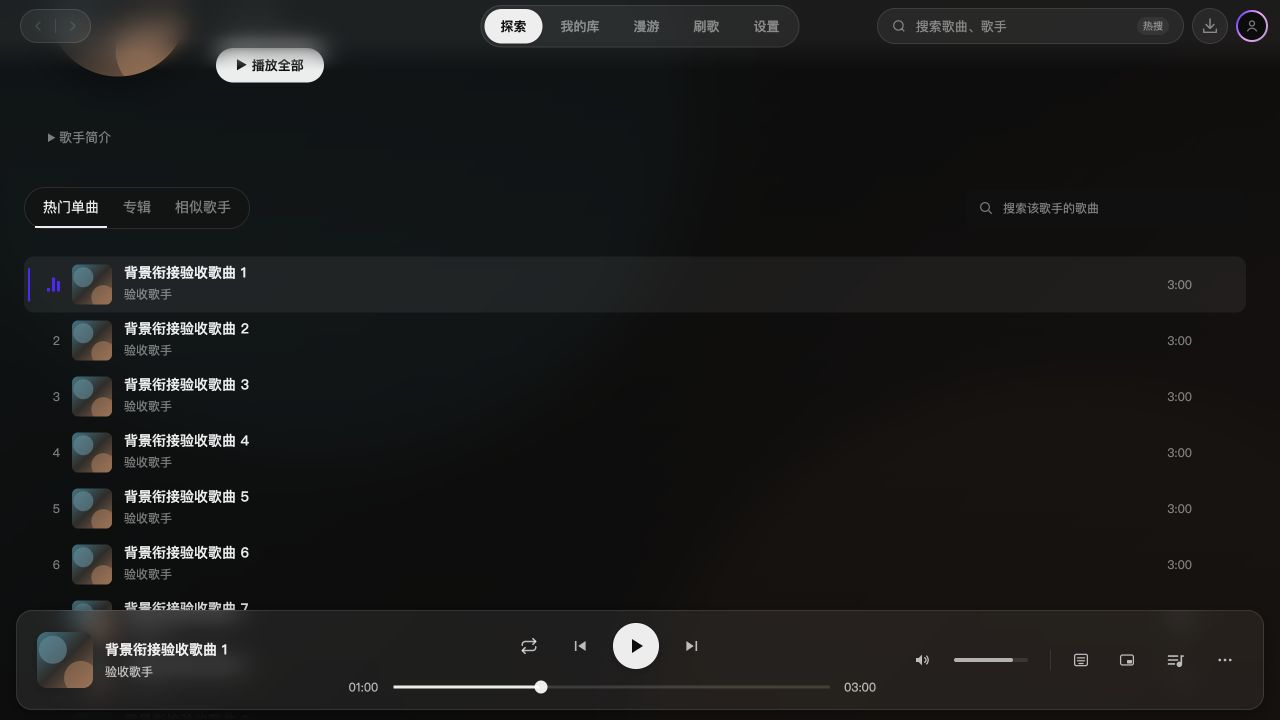
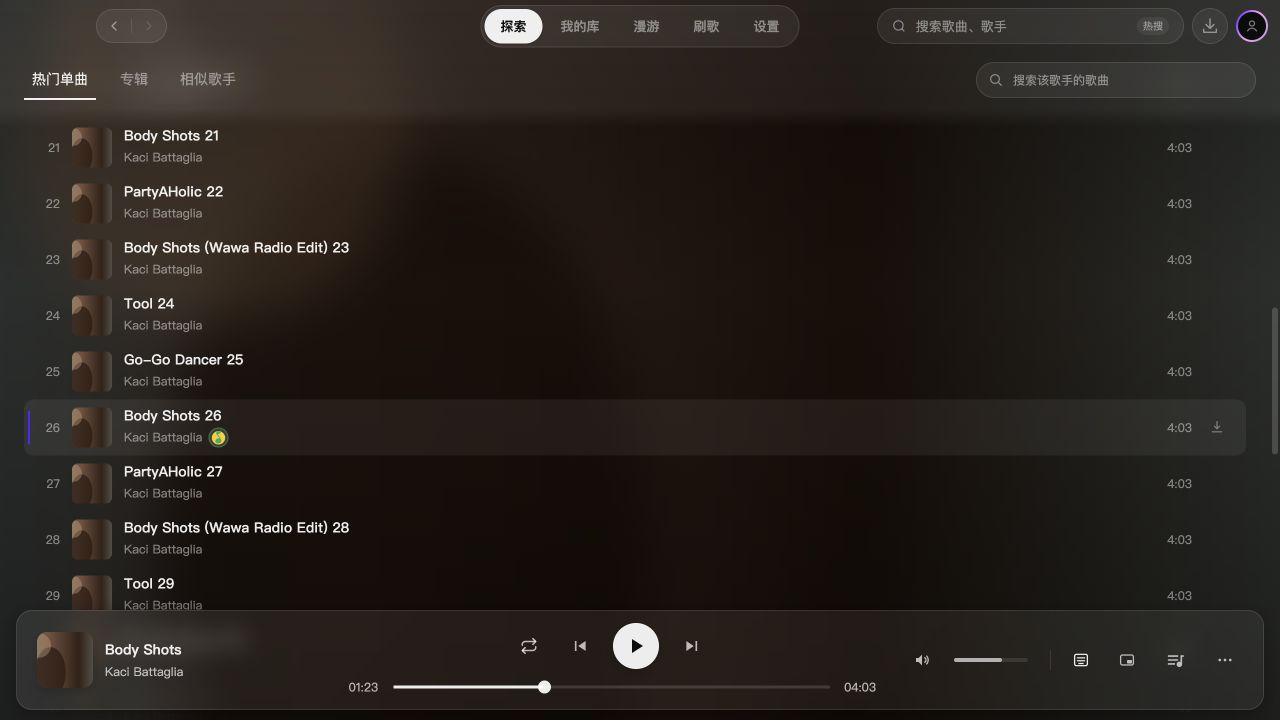
fix(ui): 歌手分类栏吸顶后融入顶部导航
原分类栏独立深色背景与顶栏割裂，且页面渐隐蒙版限制了嵌套背景模糊。将分类控件保持在根层并同步原滚动占位，吸顶时与主导航共用渐隐玻璃背景；转交滚轮与屏幕外聚焦的滚动，保留搜索焦点和历史恢复边界。

diff --git a/src/components/Artist/ArtistToolbar.tsx b/src/components/Artist/ArtistToolbar.tsx
@@ -1,0 +1,108 @@
+import { useLayoutEffect, useRef, useState, type ReactNode, type RefObject } from 'react'
+import { createPortal } from 'react-dom'
+import styles from './ArtistToolbar.module.css'
+
+interface ArtistToolbarProps {
+  children: ReactNode
+  className: string
+  scrollRef: RefObject<HTMLDivElement>
+  active: boolean
+  onUserScroll(): void
+}
+
+/** 控件始终在同一层，避开页面渐隐蒙版；吸顶时与主导航共用一层玻璃背景。 */
+export function ArtistToolbar({ children, className, scrollRef, active, onUserScroll }: ArtistToolbarProps) {
+  const onUserScrollRef = useRef(onUserScroll)
+  onUserScrollRef.current = onUserScroll
+  const anchorRef = useRef<HTMLDivElement>(null)
+  const layerRef = useRef<HTMLDivElement>(null)
+  const observerRef = useRef<ResizeObserver | null>(null)
+  const syncRef = useRef<(() => void) | null>(null)
+  const [host, setHost] = useState<HTMLElement | null>(null)
+
+  useLayoutEffect(() => {
+    setHost(anchorRef.current?.closest<HTMLElement>('[data-app-root]') ?? null)
+  }, [])
+
+  useLayoutEffect(() => {
+    const anchor = anchorRef.current
+    const layer = layerRef.current
+    const viewport = scrollRef.current
+    if (!host || !anchor || !layer || !viewport || !active) return
+    let frame = 0
+    const sync = () => {
+      const height = `${layer.offsetHeight}px`
+      if (anchor.style.height !== height) anchor.style.height = height
+      const rect = anchor.getBoundingClientRect()
+      const root = host.getBoundingClientRect()
+      const top = parseFloat(getComputedStyle(anchor).top) || 0
+      layer.style.top = `${rect.top - root.top}px`
+      layer.dataset.artistToolbarPinned = String(rect.top <= root.top + top + 0.5)
+    }
+    const schedule = () => {
+      if (frame) return
+      frame = requestAnimationFrame(() => { frame = 0; sync() })
+    }
+    const onWheel = (event: WheelEvent) => {
+      if (event.ctrlKey || !event.deltaY) return
+      onUserScrollRef.current()
+      const unit = event.deltaMode === 1 ? 16 : event.deltaMode === 2 ? viewport.clientHeight : 1
+      viewport.scrollTop += event.deltaY * unit
+      event.preventDefault()
+    }
+    layer.addEventListener('wheel', onWheel, { passive: false })
+    syncRef.current = sync
+    sync()
+    const observer = new ResizeObserver(schedule)
+    observerRef.current = observer
+    observer.observe(layer)
+    observer.observe(viewport)
+    viewport.addEventListener('scroll', schedule, { passive: true })
+    window.addEventListener('resize', schedule)
+    return () => {
+      layer.removeEventListener('wheel', onWheel)
+      syncRef.current = null
+      cancelAnimationFrame(frame)
+      observerRef.current = null
+      observer.disconnect()
+      viewport.removeEventListener('scroll', schedule)
+      window.removeEventListener('resize', schedule)
+    }
+  }, [host, scrollRef, active])
+
+  // 资料加载、展开简介或切换标签改变占位位置时，在绘制前同步。
+  useLayoutEffect(() => {
+    const anchor = anchorRef.current
+    if (anchor) {
+      for (const sibling of Array.from(anchor.parentElement?.children ?? [])) {
+        if (sibling === anchor) break
+        observerRef.current?.observe(sibling)
+      }
+    }
+    syncRef.current?.()
+  })
+
+  function onFocus() {
+    const anchor = anchorRef.current
+    const viewport = scrollRef.current
+    if (!host || !anchor || !viewport) return
+    // Portal 不再是滚动区的子节点，聚焦屏幕外输入框时由原页面承接滚动。
+    host.scrollTop = 0
+    const rect = anchor.getBoundingClientRect()
+    const bounds = viewport.getBoundingClientRect()
+    const top = parseFloat(getComputedStyle(anchor).top) || 0
+    const clearance = parseFloat(getComputedStyle(host).getPropertyValue('--sm-player-clearance')) || 0
+    if (rect.top < bounds.top + top || rect.bottom > bounds.bottom - clearance) {
+      onUserScrollRef.current()
+      viewport.scrollTop += rect.top - bounds.top - top
+    }
+    syncRef.current?.()
+  }
+
+  return <>
+    <div ref={anchorRef} className={styles.anchor}>{!host && children}</div>
+    {host && active && createPortal(
+      <div ref={layerRef} onFocusCapture={onFocus} className={`${styles.layer} ${className}`}>{children}</div>, host
+    )}
+  </>
+}

diff --git a/src/pages/ArtistPage.tsx b/src/pages/ArtistPage.tsx
@@ -7,6 +7,7 @@ import { serviceFor } from '../lib/service-registry'
 import { useNavigationStore, type ArtistPageState } from '../stores/navigation'
 import { usePlaylistStore } from '../stores/playlist'
 import { useBackdropStore } from '../stores/backdrop'
+import { ArtistToolbar } from '../components/Artist/ArtistToolbar'
 import { ArtistHeader } from '../components/Artist/ArtistHeader'
 import { TrackRow } from '../components/Explore/TrackRow'
 import { PlaylistCard } from '../components/Explore/PlaylistCard'
@@ -56,7 +57,6 @@ export function ArtistPage({ id, source, initialState }: ArtistPageProps) {
   const [similarError, setSimilarError] = useState(false)
   const [similarRetry, setSimilarRetry] = useState(0)
   const [tab, setTab] = useState<ArtistTab>(initialState?.tab ?? 'songs')
-  const [scrolled, setScrolled] = useState(false)
   const [songsHasMore, setSongsHasMore] = useState(cachedSongs?.hasMore ?? false)
   const scrollRef = useRef<HTMLDivElement>(null)
   // 必须按导航条目自带的 source 取 service：歌手可能来自另一音源（跨音源兜底的曲目、
@@ -95,7 +95,6 @@ export function ArtistPage({ id, source, initialState }: ArtistPageProps) {
     const ready = tab === 'albums' ? albumsLoaded : tab === 'similar' ? similarLoaded : songsLoaded && !search.loading
     if (scrollRestored.current || !artistLoaded || !ready || !scrollRef.current) return
     scrollRef.current.scrollTop = savedState.current?.scrollTop ?? 0
-    setScrolled(scrollRef.current.scrollTop > 8)
     scrollRestored.current = true
   }, [artistLoaded, tab, albumsLoaded, similarLoaded, songsLoaded, search.loading])
 
@@ -220,7 +219,7 @@ export function ArtistPage({ id, source, initialState }: ArtistPageProps) {
   }
 
   return (
-    <ScrollArea className={styles.page} scrollRef={scrollRef} onScrolledChange={setScrolled}>
+    <ScrollArea className={styles.page} scrollRef={scrollRef}>
       <motion.button
         className={`${styles.back} no-drag`}
         onClick={goBack}
@@ -247,7 +246,7 @@ export function ArtistPage({ id, source, initialState }: ArtistPageProps) {
 
       {artist && <ArtistHeader artist={artist} onPlayAll={playAll} />}
 
-      <div className={`${styles.subTabs} ${scrolled ? styles.subTabsScrolled : ''}`}>
+      <ArtistToolbar className={styles.subTabs} scrollRef={scrollRef} active={active} onUserScroll={() => { scrollRestored.current = true }}>
         {tab === 'songs' ? (
           <TrackSearch value={query} onChange={(value) => {
             scrollRestored.current = true
@@ -260,7 +259,7 @@ export function ArtistPage({ id, source, initialState }: ArtistPageProps) {
         ) : (
           <div className={styles.tabsOnly}><div className={styles.tabGroup}>{tabButtons}</div></div>
         )}
-      </div>
+      </ArtistToolbar>
 
       {tab === 'songs' && (
         <div className={styles.trackList}>

diff --git a/src/pages/ArtistPage.module.css b/src/pages/ArtistPage.module.css
@@ -52,21 +52,15 @@
 }
 
 .subTabs {
-  display: flow-root;
   padding: 0 24px;
-  position: sticky;
-  top: var(--sm-topbar-height, 0px);
-  z-index: 10;
-}
-
-/* 只给悬浮控件承托背景，不在整行铺实色；滚动后增强底色避免歌曲文字透入。 */
-.subTabsScrolled {
+  --track-toolbar-height: 56px;
+  --track-toolbar-padding: 8px 0;
+  --track-toolbar-margin: 0px;
   --track-toolbar-divider: transparent;
-  --track-search-background: color-mix(in srgb, var(--sm-bg-base) 92%, var(--glass-bg-card));
-  --track-search-blur: var(--glass-blur-card);
+  --track-search-background: var(--glass-bg-base);
+  --track-search-border: var(--glass-border-base);
+  --track-search-radius: var(--sm-radius-pill);
 }
-
-.subTabsScrolled .tabGroup { background: var(--track-search-background); }
 
 .subTab {
   padding: 9px 8px;
@@ -87,21 +81,10 @@
 .tabGroup {
   display: flex;
   align-items: center;
-  gap: 8px;
-  padding: 0 10px;
-  border: 1px solid var(--glass-border-base);
-  border-radius: var(--sm-radius-pill);
-  background: var(--glass-bg-base);
-  backdrop-filter: var(--glass-blur-card);
-  -webkit-backdrop-filter: var(--glass-blur-card);
-  transition: background 200ms ease;
+  gap: 16px;
 }
 
-@media (prefers-reduced-motion: reduce) {
-  .tabGroup { transition: none; }
-}
-
-.tabsOnly { display: flex; align-items: center; gap: 8px; min-height: 72px; margin-bottom: 12px; border-bottom: 1px solid var(--track-toolbar-divider, var(--sm-border)); }
+.tabsOnly { display: flex; align-items: center; min-height: 56px; }
 
 .viewAllSongs {
   display: block;

diff --git a/src/components/Artist/ArtistToolbar.module.css b/src/components/Artist/ArtistToolbar.module.css
@@ -1,0 +1,38 @@
+.anchor {
+  position: sticky;
+  top: var(--sm-topbar-height, 52px);
+}
+
+.layer {
+  position: absolute;
+  left: 0;
+  right: 0;
+  pointer-events: none;
+  z-index: 90;
+  isolation: isolate;
+  -webkit-app-region: initial;
+}
+
+.layer > * { pointer-events: auto; -webkit-app-region: no-drag; }
+
+/* 与上方主导航连成一张玻璃，下缘渐隐到列表，保留封面氛围。 */
+.layer::before {
+  content: '';
+  position: absolute;
+  inset: calc(-1 * var(--sm-topbar-height, 52px)) 0 -18px;
+  z-index: -1;
+  pointer-events: none;
+  -webkit-app-region: initial;
+  background: linear-gradient(to bottom, var(--glass-bg-card), var(--glass-bg-base));
+  backdrop-filter: var(--glass-blur-card);
+  -webkit-backdrop-filter: var(--glass-blur-card);
+  mask-image: linear-gradient(to bottom, #000 calc(100% - 18px), transparent);
+  opacity: 0;
+  transition: opacity 180ms var(--sm-ease-out);
+}
+
+.layer[data-artist-toolbar-pinned='true']::before { opacity: 1; }
+
+@media (prefers-reduced-motion: reduce) {
+  .layer::before { transition: none; }
+}

diff --git a/src/components/ui/TrackSearch.module.css b/src/components/ui/TrackSearch.module.css
@@ -4,9 +4,9 @@
   justify-content: space-between;
   flex-wrap: wrap;
   gap: 14px 24px;
-  min-height: 72px;
-  padding: 14px 0;
-  margin-bottom: 12px;
+  min-height: var(--track-toolbar-height, 72px);
+  padding: var(--track-toolbar-padding, 14px 0);
+  margin-bottom: var(--track-toolbar-margin, 12px);
   border-bottom: 1px solid var(--track-toolbar-divider, var(--sm-border));
   box-sizing: border-box;
 }
@@ -21,8 +21,8 @@
   gap: 9px;
   height: 36px;
   padding: 0 11px;
-  border: 1px solid transparent;
-  border-radius: 9px;
+  border: 1px solid var(--track-search-border, transparent);
+  border-radius: var(--track-search-radius, 9px);
   background: var(--track-search-background, var(--glass-bg-base));
   backdrop-filter: var(--track-search-blur, none);
   -webkit-backdrop-filter: var(--track-search-blur, none);

diff --git a/src/App.tsx b/src/App.tsx
@@ -169,7 +169,7 @@ export default function App() {
   return (
     <MotionConfig reducedMotion="user">
       <WindowChrome>
-        <div className={styles.root} data-view={currentView === 'shuange' ? 'shuange' : undefined}>
+        <div data-app-root className={styles.root} data-view={currentView === 'shuange' ? 'shuange' : undefined}>
           <AmbientBackground hidden={(lyricsOpen && lyricsMode === '3d') || !!detailBackdropCover} />
           <DetailBackdrop />
           <TopBar hidden={lyricsOpen} />

diff --git a/src/components/Layout/TopBar.module.css b/src/components/Layout/TopBar.module.css
@@ -24,6 +24,13 @@
   backdrop-filter: var(--glass-blur-base);
   -webkit-backdrop-filter: var(--glass-blur-base);
   mask-image: linear-gradient(to bottom, #000 55%, transparent);
+  transition: opacity 180ms var(--sm-ease-out);
+}
+
+:global([data-app-root]:has([data-artist-toolbar-pinned='true'])) .bar::before { opacity: 0; }
+
+@media (prefers-reduced-motion: reduce) {
+  .bar::before { transition: none; }
 }
 
 /* macOS 交通灯内嵌在左上角，顶栏内容需相应右移 */

diff --git a/docs/reviews/2.3.4-artist-toolbar.md b/docs/reviews/2.3.4-artist-toolbar.md
@@ -1,27 +1,30 @@
-# 2.3.4 歌手页分类栏背景衔接验收
+# 2.3.4 歌手分类栏与顶部导航衔接验收
 
-目标 `dev/2.3.4`，基于 `8ed3dba`。用户截图指出歌手页分类与搜索栏的整行黑色背景突兀。本轮只集成修复，暂不发布。
+目标 `dev/2.3.4`，基于 `ffb54b8`。分类标签与搜索框原先各有深色胶囊背景，滚动后与顶部导航割裂。本轮仅集成修正，暂不发布。
 
 ## 修正
 
-原分类栏在页面滚动超过 8px 后显示全宽伪元素，实测背景为 88% 不透明的深色，且上边缘未渐隐；分类栏尚未吸顶时也会把封面氛围背景切断。
+移除标签组的独立背景；分类栏吸顶后与主导航共用一张玻璃背景，下缘渐隐到歌曲列表。搜索框沿用顶栏的轻玻璃与圆角。吸顶前保留封面氛围，不提前铺背景。
 
-取消全宽背景，将玻璃承托限制在圆角标签组和搜索框。滚动后仅增强两个控件的局部底色，避免列表文字透入；标签、专辑和相似歌手复用同一容器。搜索框通过局部 CSS 变量接收背景与模糊，其他页面的默认、悬停及聚焦值保持原样。减少透明度和减少动画仍遵循现有设置。
+分类控件始终挂载在同一根层，避开页面渐隐蒙版对背景模糊的限制；占位跟随原滚动区，资料加载、简介展开及窗口尺寸变化同步位置。滚轮转交原页面并取消待执行的历史位置恢复，输入框跨吸顶状态保持焦点和值。退出歌手页立即移除控件层，恢复普通顶栏背景。其他搜索页面继续使用原默认样式。
 
 ## 验证
 
-- 在开发模式中挂载真实歌手页、顶栏和播放栏，用合成 QQ 歌手、50 首曲目、20 张专辑与本地 SVG 封面复现截图；未登录在线账号。
-- 1280 × 720 深色界面检查部分滚动与吸顶：整行背景伪元素已不存在，吸顶位置保持 52px；标签和搜索独立承托。
-- 960 × 640 浅色窄窗口检查布局，专辑、相似歌手及热门单曲切换正常；减少透明度模式的背景模糊为 `none`，未恢复全宽横条。
-- 独立复审未发现阻塞或其他搜索页面默认样式回归；复审指出局部减少动画声明顺序问题，已移到常规过渡声明之后。
-- 最终 `npm run typecheck` 通过；全量测试 197 个文件、1624 项通过。Windows 原生背景合成尚未实机复测；本地合成数据验收不代表在线歌手资料请求已验收。
+- 开发模式挂载真实 AppShell、歌手页、顶栏与播放栏；使用合成 QQ 歌手、50 首歌曲、20 张专辑、15 位相似歌手与本地 SVG 封面。
+- 1280 × 720 深色界面：滚轮在搜索框上操作后分类栏吸顶到 52px；输入值 `Body`、焦点与根容器位置保持不变。
+- 展开足够长的简介后分类栏位于屏幕外；用真实 Tab 聚焦搜索框，原页面滚动到可见位置，根容器 `scrollTop` 仍为 0，分类栏回到 52px。
+- 延迟搜索结果加载：在控件上滚动后完成搜索，原页面保持 0；没有用户滚动时仍正常恢复历史 900px，避免加载完成覆盖用户意图。
+- 专辑、相似歌手切换正常；后退退出歌手页后控件层数量为 0，顶栏背景恢复。
+- 960 × 640 浅色与减少透明度设置：分类和搜索正常排列，玻璃模糊为 `blur(0px)`；截图见下。
+- 独立复审指出滚轮未取消历史位置恢复的问题，已修复；后续复核未发现阻塞问题。
+- 最终类型检查通过；全量测试 197 个文件、1624 项通过（受限环境的本地 HTTP 用例超时后，在允许启动本机服务的环境重跑通过）。Windows 原生合成与窗口拖动仍需实机确认；合成数据检查不代表在线资料请求或真实播放已验收。
 
 修改前：
 
-![整行黑色背景](assets/2.3.4-artist-toolbar-before.png)
+![原分类栏整行背景](assets/2.3.4-artist-toolbar-before.png)
 
 修改后：
 
-![深色局部控件背景](assets/2.3.4-artist-toolbar-dark.png)
+![深色共享顶部背景](assets/2.3.4-artist-toolbar-dark.png)
 
-![浅色窄窗口](assets/2.3.4-artist-toolbar-light.png)
+![浅色窄窗口与减少透明度](assets/2.3.4-artist-toolbar-light.png)
